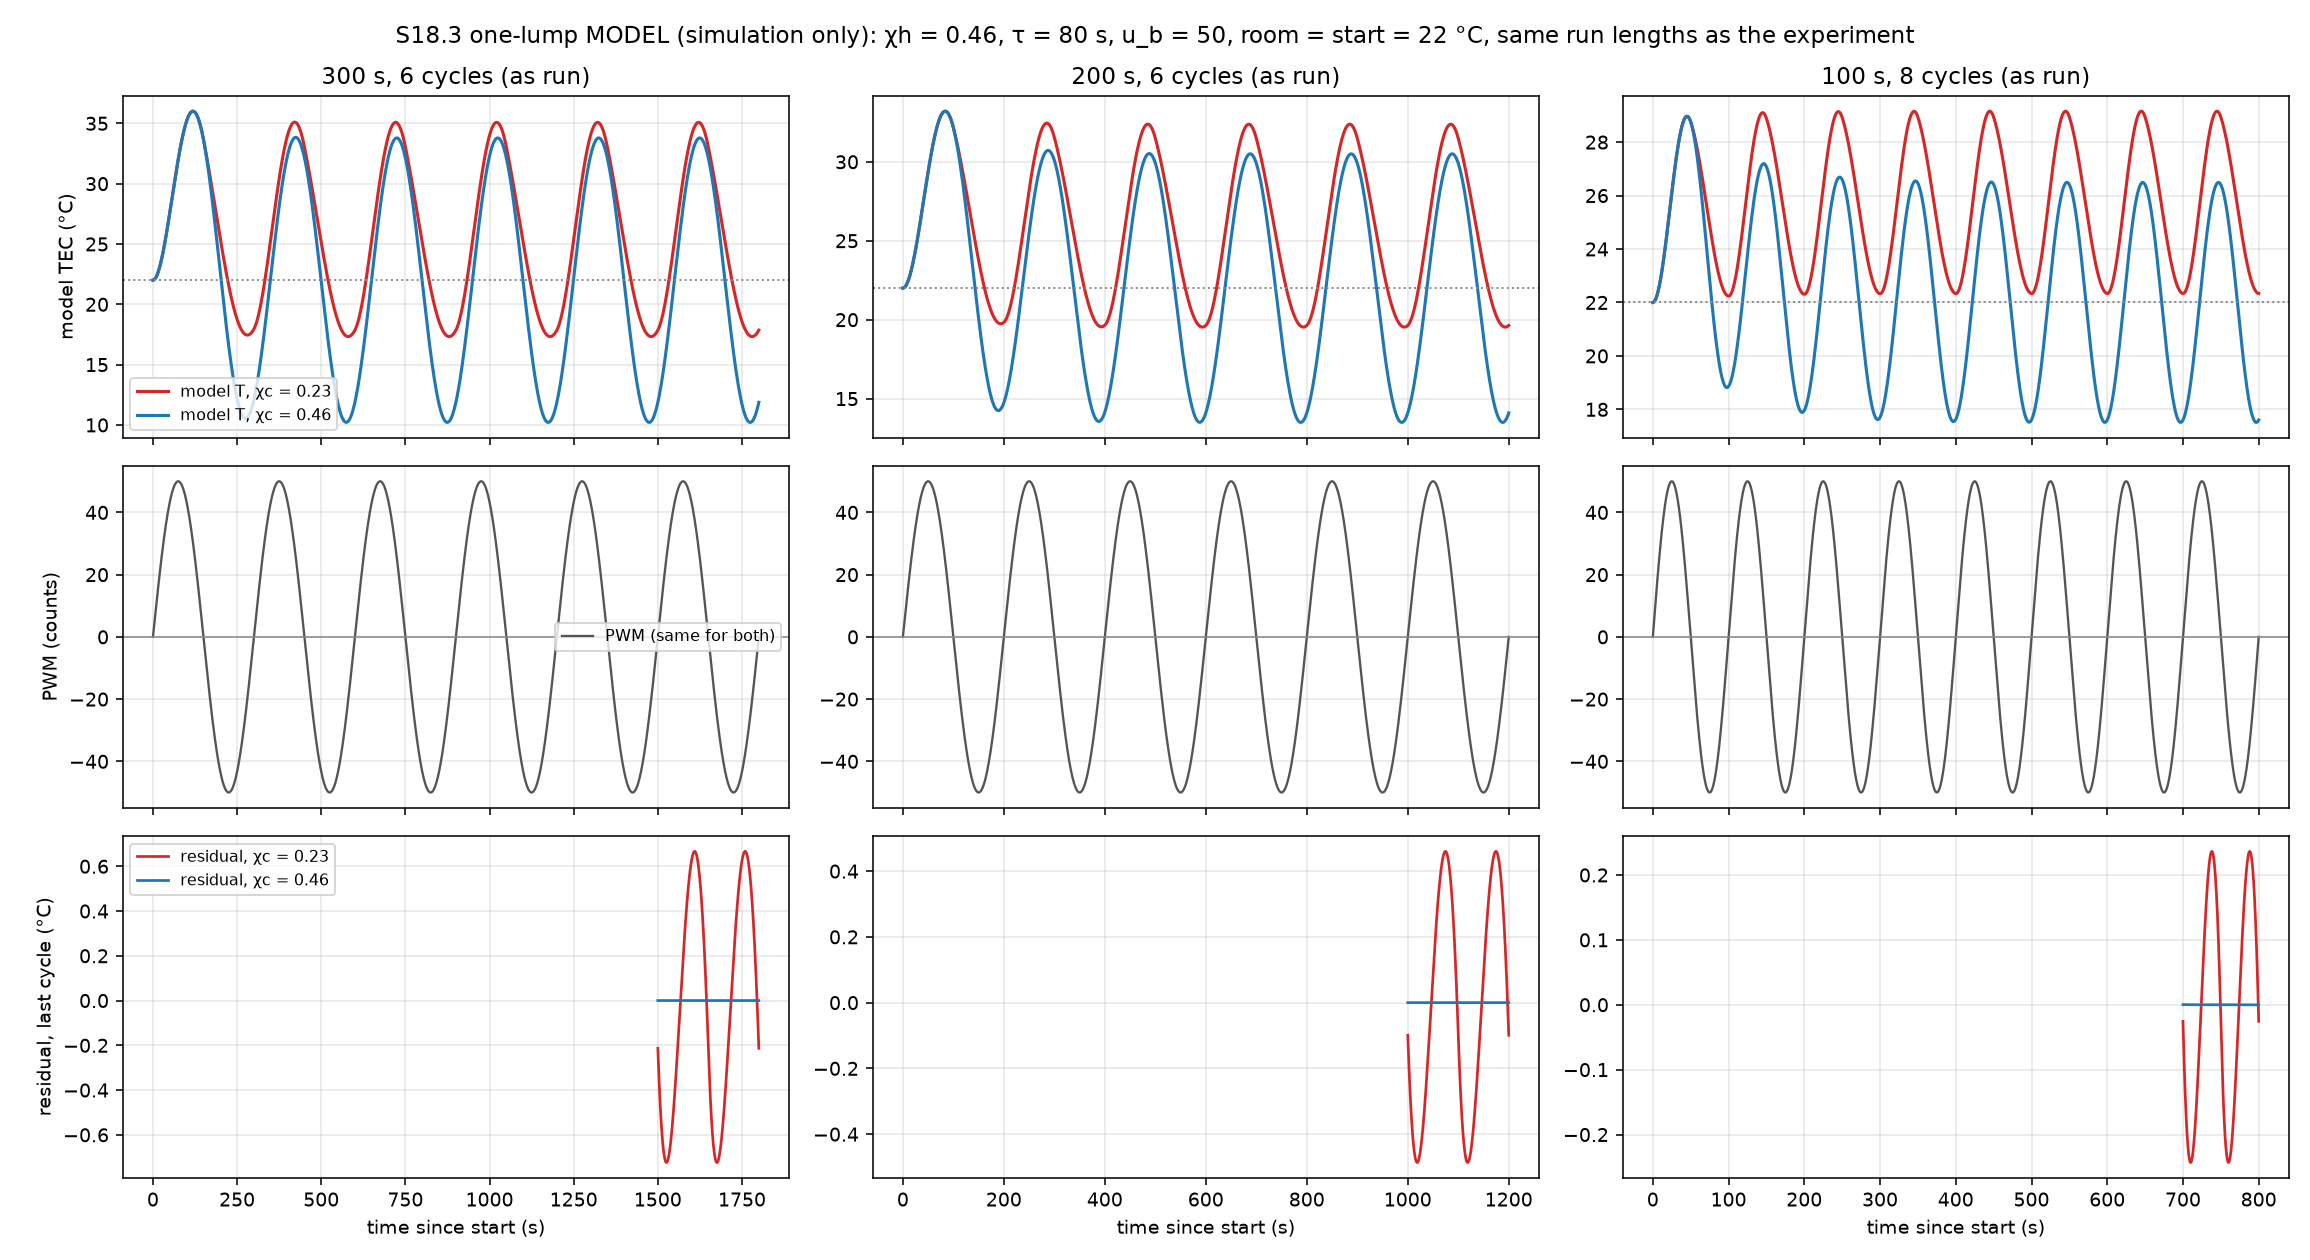
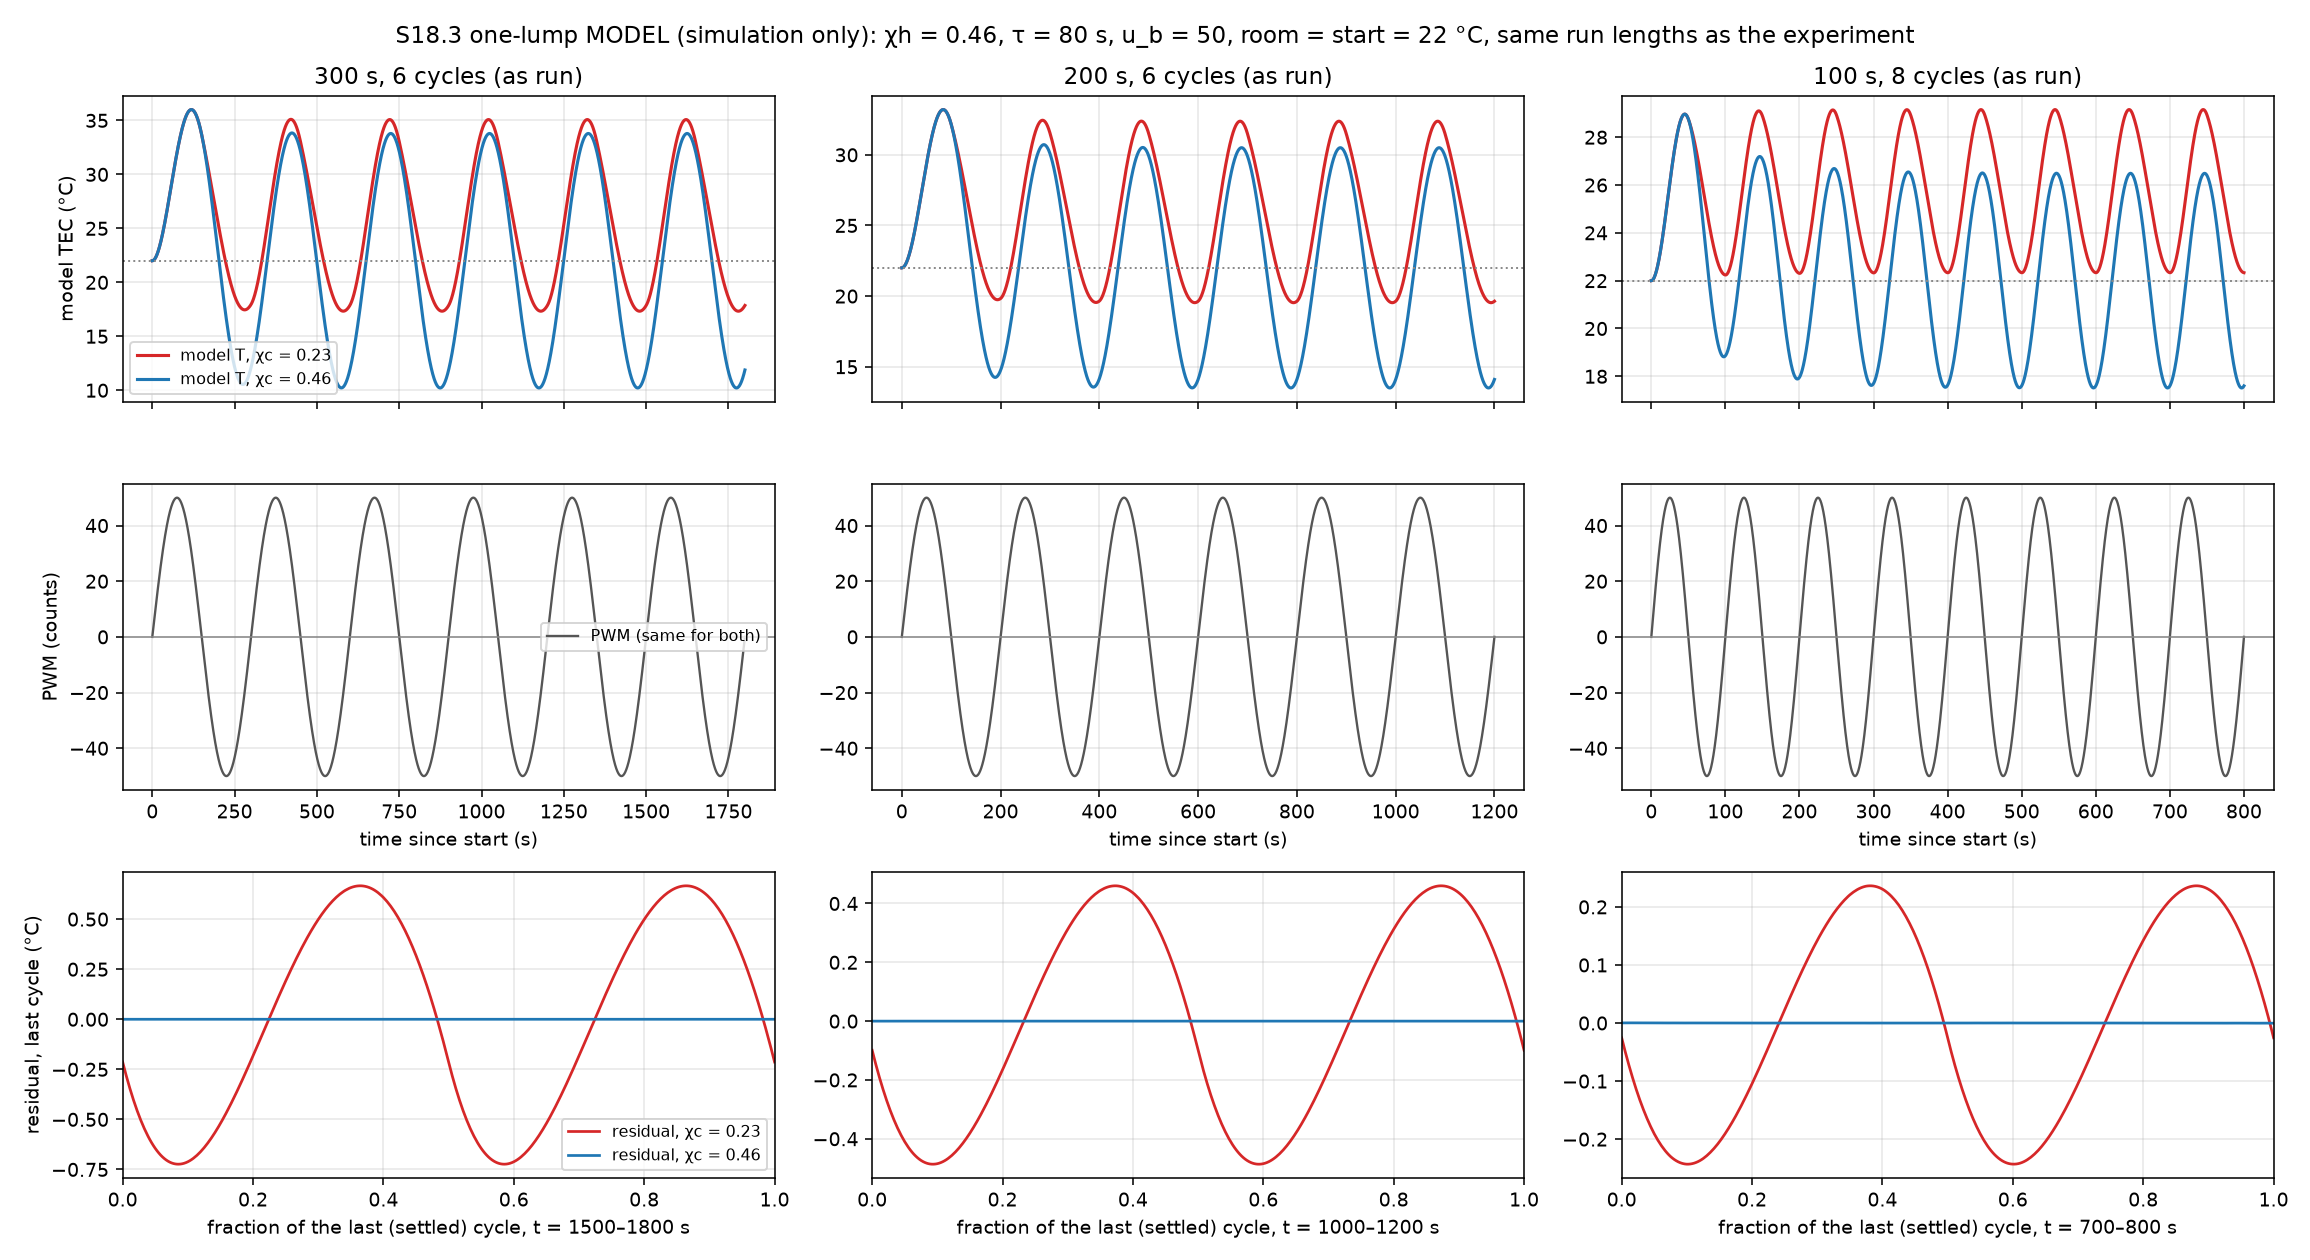
Module 8: S18.3 model figure, residual row zoomed to the last cycle

diff --git a/code/module8/s18_3_onelump_sim.py b/code/module8/s18_3_onelump_sim.py
@@ -88,20 +88,24 @@ def main():
 
     # Same layout and length as the experiment figure: one column per period, from t = 0.
     periods = (300, 200, 100)
-    fig, axes = plt.subplots(3, 3, figsize=(16.5, 9), sharex='col')
+    fig, axes = plt.subplots(3, 3, figsize=(16.5, 9))  # bottom row: its own x-axis for the last cycle
     for col, period in enumerate(periods):
         t_end = EXPERIMENT_CYCLES[period]*period
         for chi_c, color in ((0.23, '#d62728'), (0.46, '#1f77b4')):
             ts, Ts, pwm = simulate(period, chi_c, args.ub, t_end)
             r = settled(ts, Ts, period)  # last complete cycle of this length
             axes[0, col].plot(ts, Ts, color=color, lw=1.6, label=f'model T, χc = {chi_c}')
-            axes[2, col].plot(r['tt'], r['resid'], color=color, lw=1.4, label=f'residual, χc = {chi_c}')
+            axes[2, col].plot((r['tt'] - r['start'])/period, r['resid'], color=color, lw=1.4,
+                              label=f'residual, χc = {chi_c}')
             if chi_c == 0.23:
                 axes[1, col].plot(ts, [pwm(t) for t in ts], color='#555', lw=1.2, label='PWM (same for both)')
         axes[0, col].axhline(ROOM, color='#888', ls=':', lw=1)
         axes[0, col].set_title(f'{period} s, {EXPERIMENT_CYCLES[period]} cycles (as run)')
         axes[1, col].axhline(0, color='#888', lw=.8)
-        axes[2, col].set_xlabel('time since start (s)')
+        axes[1, col].set_xlabel('time since start (s)')
+        axes[0, col].sharex(axes[1, col]); axes[0, col].tick_params(labelbottom=False)
+        axes[2, col].set_xlim(0, 1)
+        axes[2, col].set_xlabel(f'fraction of the last (settled) cycle, t = {t_end - period:g}–{t_end:g} s')
         for ax in axes[:, col]:
             ax.grid(alpha=.3)
     axes[0, 0].set_ylabel('model TEC (°C)'); axes[1, 0].set_ylabel('PWM (counts)')
